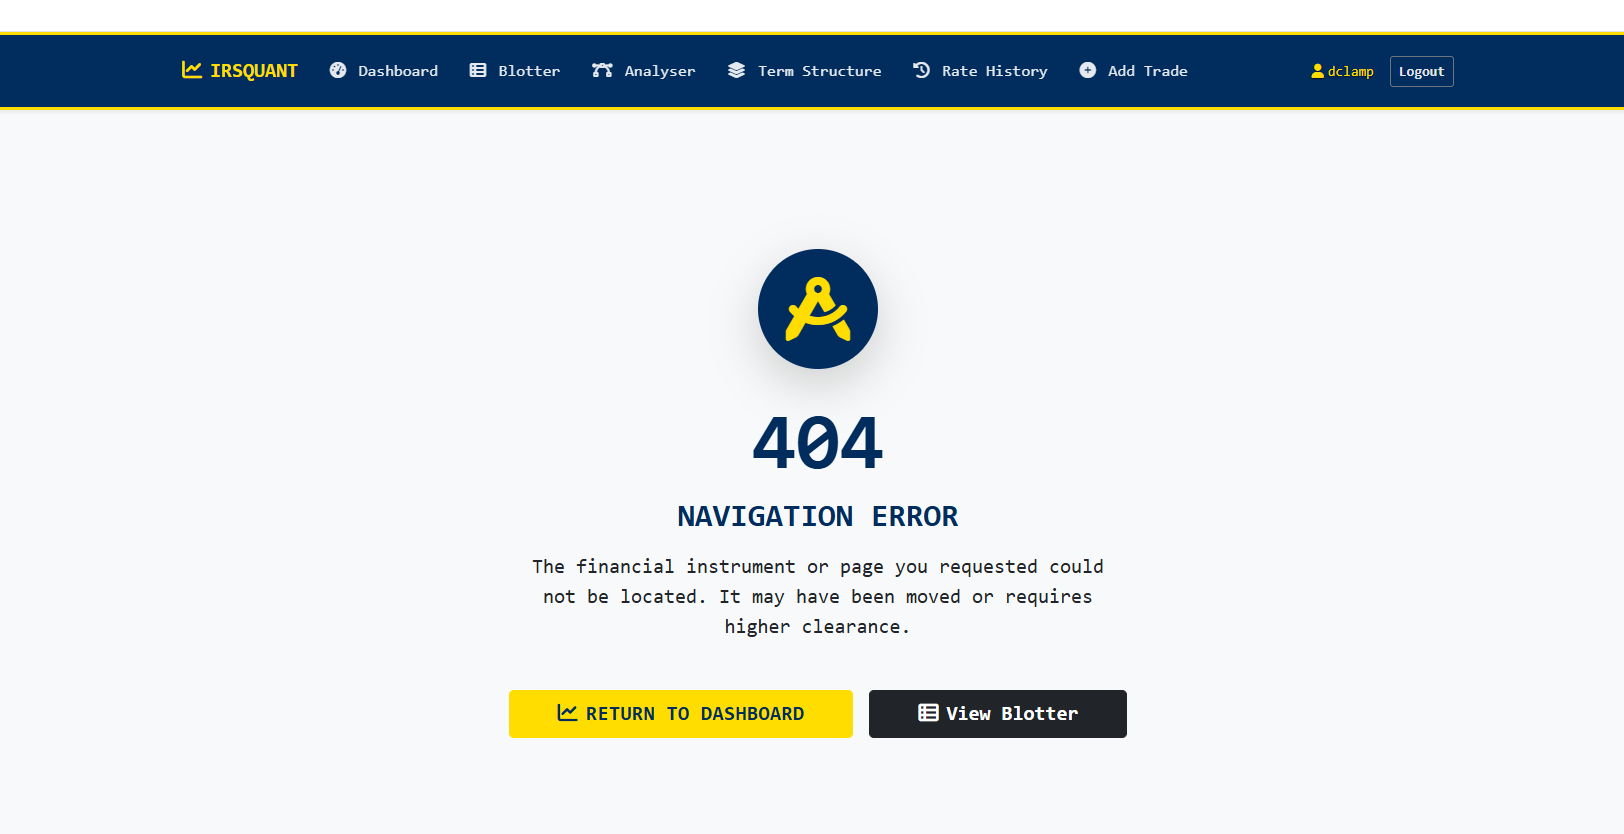
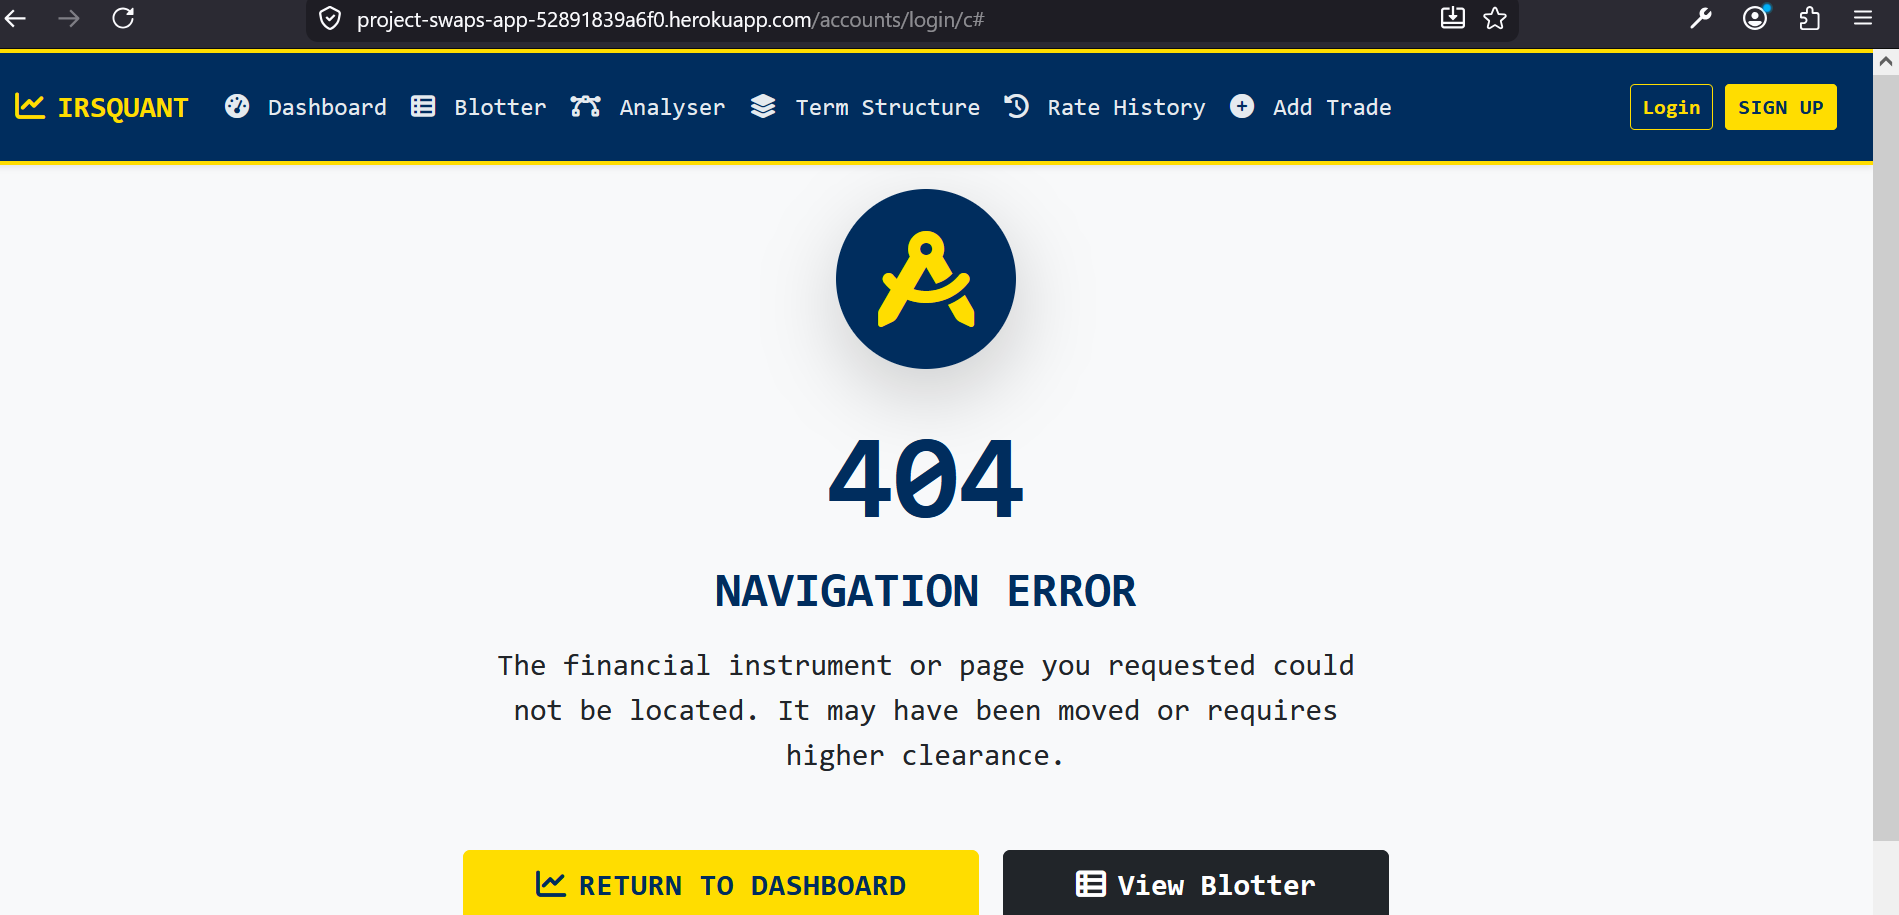
Updated 404 and 500 browser testing

Changed region(s): [[0.0, 0.0, 1.0, 0.9353], [0.2463, 0.5923, 0.7389, 1.0]]

diff --git a/TESTING.md b/TESTING.md
@@ -147,8 +147,8 @@ The deployed project was tested across the three major browsers to ensure consis
 | Term Structure | ![screenshot](documentation/responsiveness/desktop_term.png) | ![screenshot](documentation/browser/firefox_term.png) | ![screenshot](documentation/browser/edge_term.png) | Works as expected |
 | Rates History | ![screenshot](documentation/responsiveness/desktop_history.png) | ![screenshot](documentation/browser/firefox_rate.png) | ![screenshot](documentation/browser/edge_rate.png) | Works as expected |
 | Add Trade | ![screenshot](documentation/responsiveness/desktop_addtrade.png) | ![screenshot](documentation/browser/firefox_addtrade.png) | ![screenshot](documentation/browser/edge_addtrade.png) | Works as expected |
-| 404 | ![screenshot](documentation/responsiveness/desktop_404.png) | ![screenshot](documentation/browser/firefox_404.png) | ![screenshot](documentation/browser/firefox_404.png) | Works as expected |
-| 500 | ![screenshot](documentation/responsiveness/desktop_500.png) | ![screenshot](documentation/browser/firefox_500.png) | ![screenshot](documentation/browser/edge_500.png) | Works as expected |
+| 404 | ![screenshot](documentation/responsiveness/desktop_404.png) | ![screenshot](documentation/browser/firefox_404.png) | ![screenshot](documentation/browser/edge_404.png) | Works as expected |
+| 500 | ![screenshot](documentation/responsiveness/desktop_500.png) | Verified | Verified | Custom 500 UI confirmed in Chrome. Parity across Firefox/Edge verified via 404/base template testing. |
 
 ---
 
@@ -316,7 +316,7 @@ Mobile scores are naturally lower due to Heroku Eco dyno cold‑start behaviour.
 | Term Structure | ![screenshot](documentation/lighthouse/mobile_termstructure.png) | ![screenshot](documentation/lighthouse/desktop_termstructure.png) ||
 | Rate History | ![screenshot](documentation/lighthouse/mobile_history.png) | ![screenshot](documentation/lighthouse/desktop_history.png) ||
 | Add Trade | ![screenshot](documentation/lighthouse/mobile_addtrade.png) | ![screenshot](documentation/lighthouse/mobile_addtrade.png) ||
-| 404 | ![screenshot](documentation/lighthouse/mobile_404.png) | ![screenshot](documentation/lighthouse/desktop_404.png) |Tested using trap door URL|
+| 404 | ![screenshot](documentation/lighthouse/mobile_404.png) | ![screenshot](documentation/lighthouse/desktop_404.png) |Tested using false URL|
 | 500 | ![screenshot](documentation/lighthouse/mobile_500.png) | ![screenshot](documentation/lighthouse/desktop_500.png) |Tested using trap door URL|
 ---
 